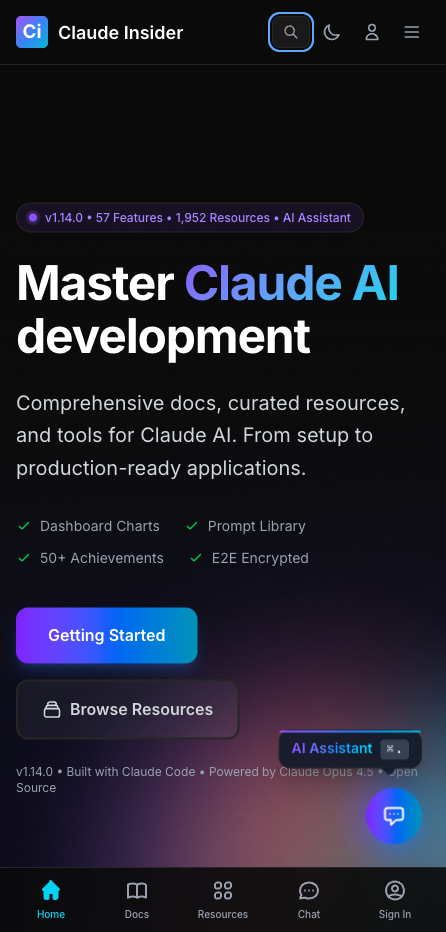
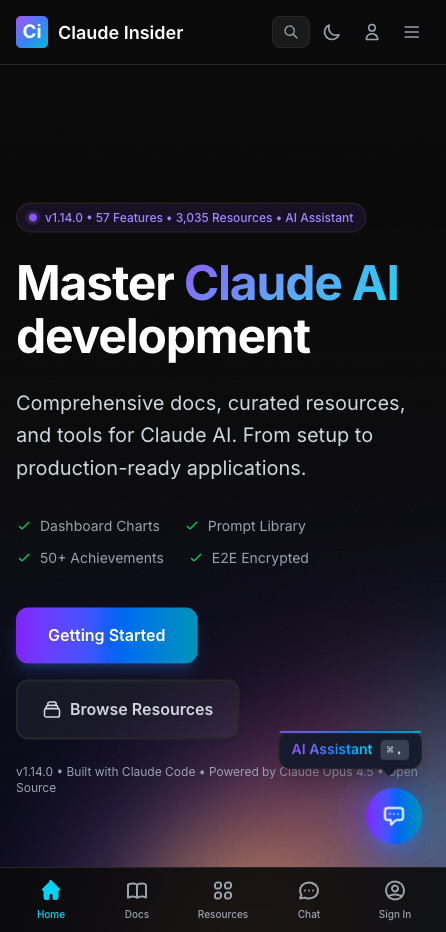
feat(mockups): update device mockups for v1.14.1 dark theme
- Update mobile screenshot with dark theme homepage
- Update terminal content to v1.14.1 (59 features, 3,035+ resources)
- Update feature highlights: Link Validation, MCP Discovery (2,136+)
- Update component comments for v1.14.1

🤖 Generated with [Claude Code](https://claude.com/claude-code)

diff --git a/apps/web/components/device-mockups.tsx b/apps/web/components/device-mockups.tsx
@@ -283,7 +283,7 @@ export function IPhone17ProMax({
 }
 
 /**
- * Realistic terminal content showing Claude Insider v1.13.6
+ * Realistic terminal content showing Claude Insider v1.14.1
  */
 function MacBookTerminalContent() {
   return (
@@ -311,11 +311,11 @@ function MacBookTerminalContent() {
         <div className="mt-1">
           <span className="text-[#a371f7]">╭─</span>
           <span className="text-[#7ee787]"> Claude Insider</span>
-          <span className="text-[#8b949e]"> v1.13.6</span>
+          <span className="text-[#8b949e]"> v1.14.1</span>
         </div>
         <div>
           <span className="text-[#a371f7]">│</span>
-          <span className="text-[#8b949e]"> Features: 56 • Resources: 1,952+</span>
+          <span className="text-[#8b949e]"> Features: 59 • Resources: 3,035+</span>
         </div>
         <div>
           <span className="text-[#a371f7]">╰─</span>
@@ -323,8 +323,8 @@ function MacBookTerminalContent() {
         </div>
 
         <div className="mt-2 space-y-[3px]">
-          <div className="text-[#7ee787]">✓ Resource Submissions</div>
-          <div className="text-[#7ee787]">✓ Chat 4x Faster (RPC)</div>
+          <div className="text-[#7ee787]">✓ Link Validation System</div>
+          <div className="text-[#7ee787]">✓ MCP Discovery (2,136+)</div>
           <div className="text-[#7ee787]">✓ E2EE Matrix Protocol</div>
           <div className="text-[#7ee787]">✓ 50+ Achievements</div>
           <div className="text-[#7ee787]">✓ RAG v7.0 (6,983 chunks)</div>
@@ -342,7 +342,7 @@ function MacBookTerminalContent() {
 /**
  * Real screenshot of Claude Insider mobile homepage
  * Shows the actual mobile header and bottom navigation bar
- * Updated for v1.13.6 with proper aspect ratio handling and LCP optimization
+ * Updated for v1.14.1 with proper aspect ratio handling and LCP optimization
  *
  * MANDATORY MOCKUP RULES:
  * 1. Screenshot MUST be taken at 446×932 viewport (matches mockup 224:468 aspect ratio)
